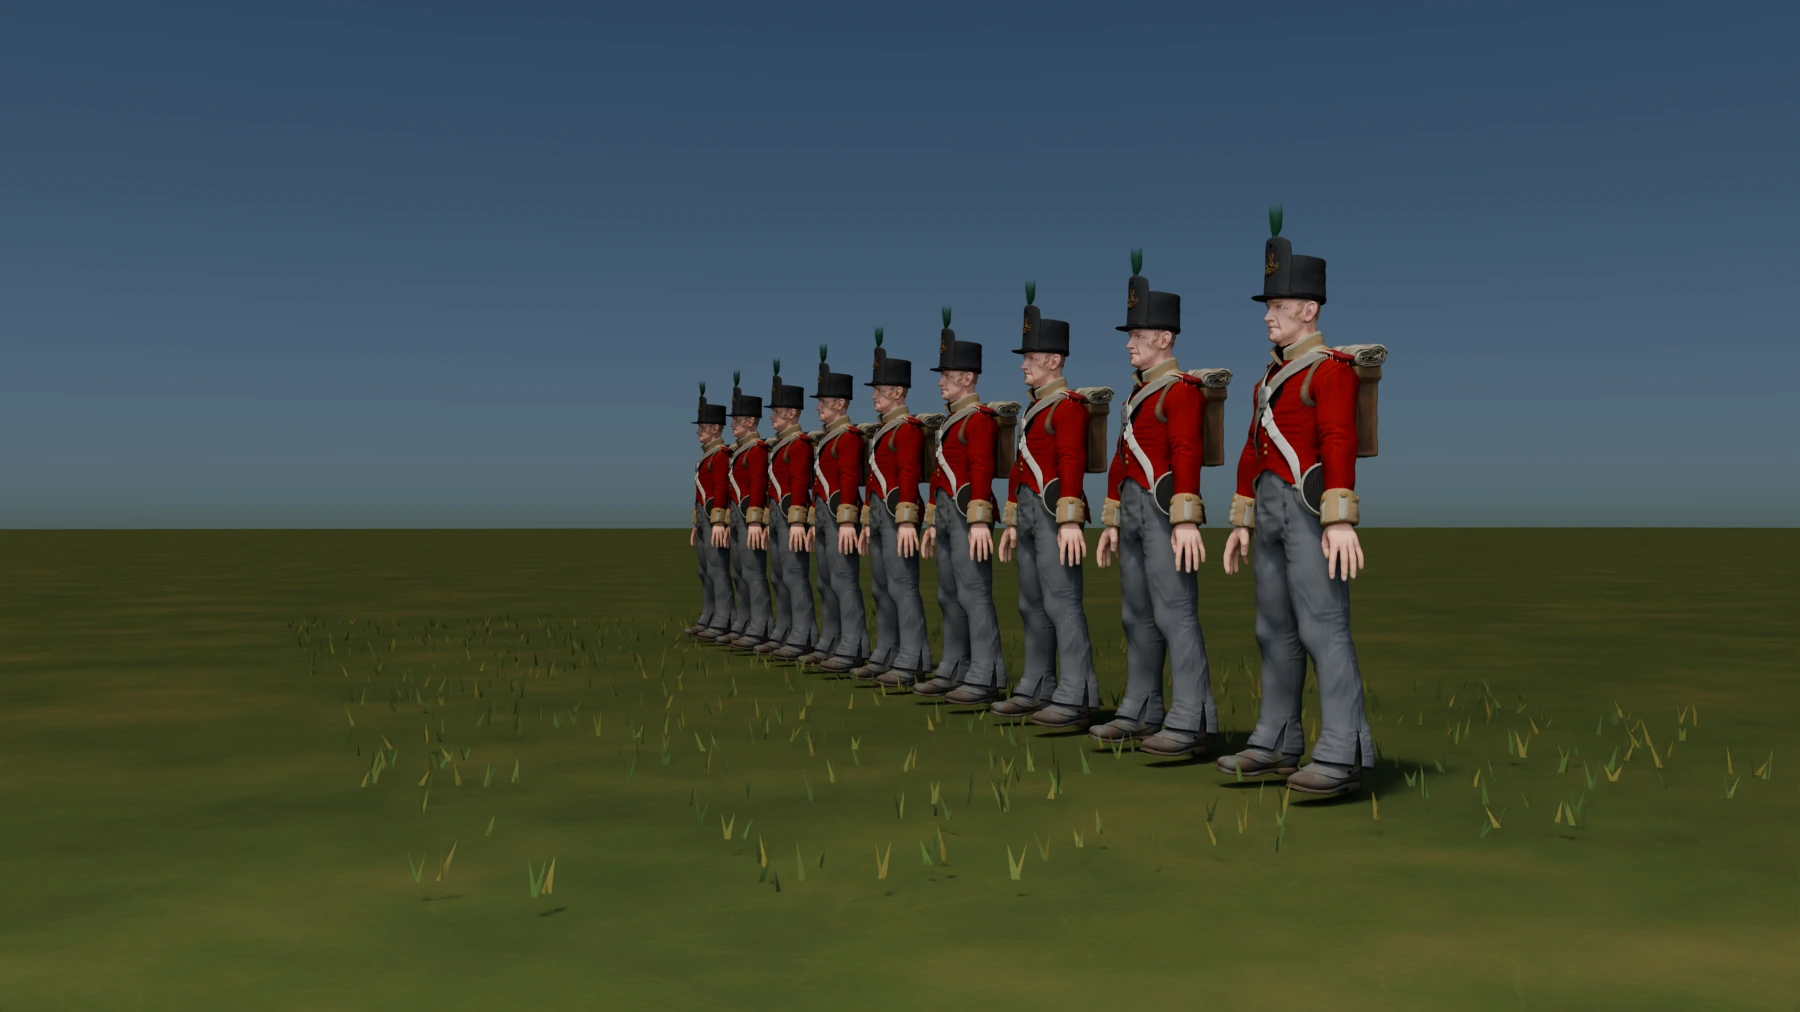
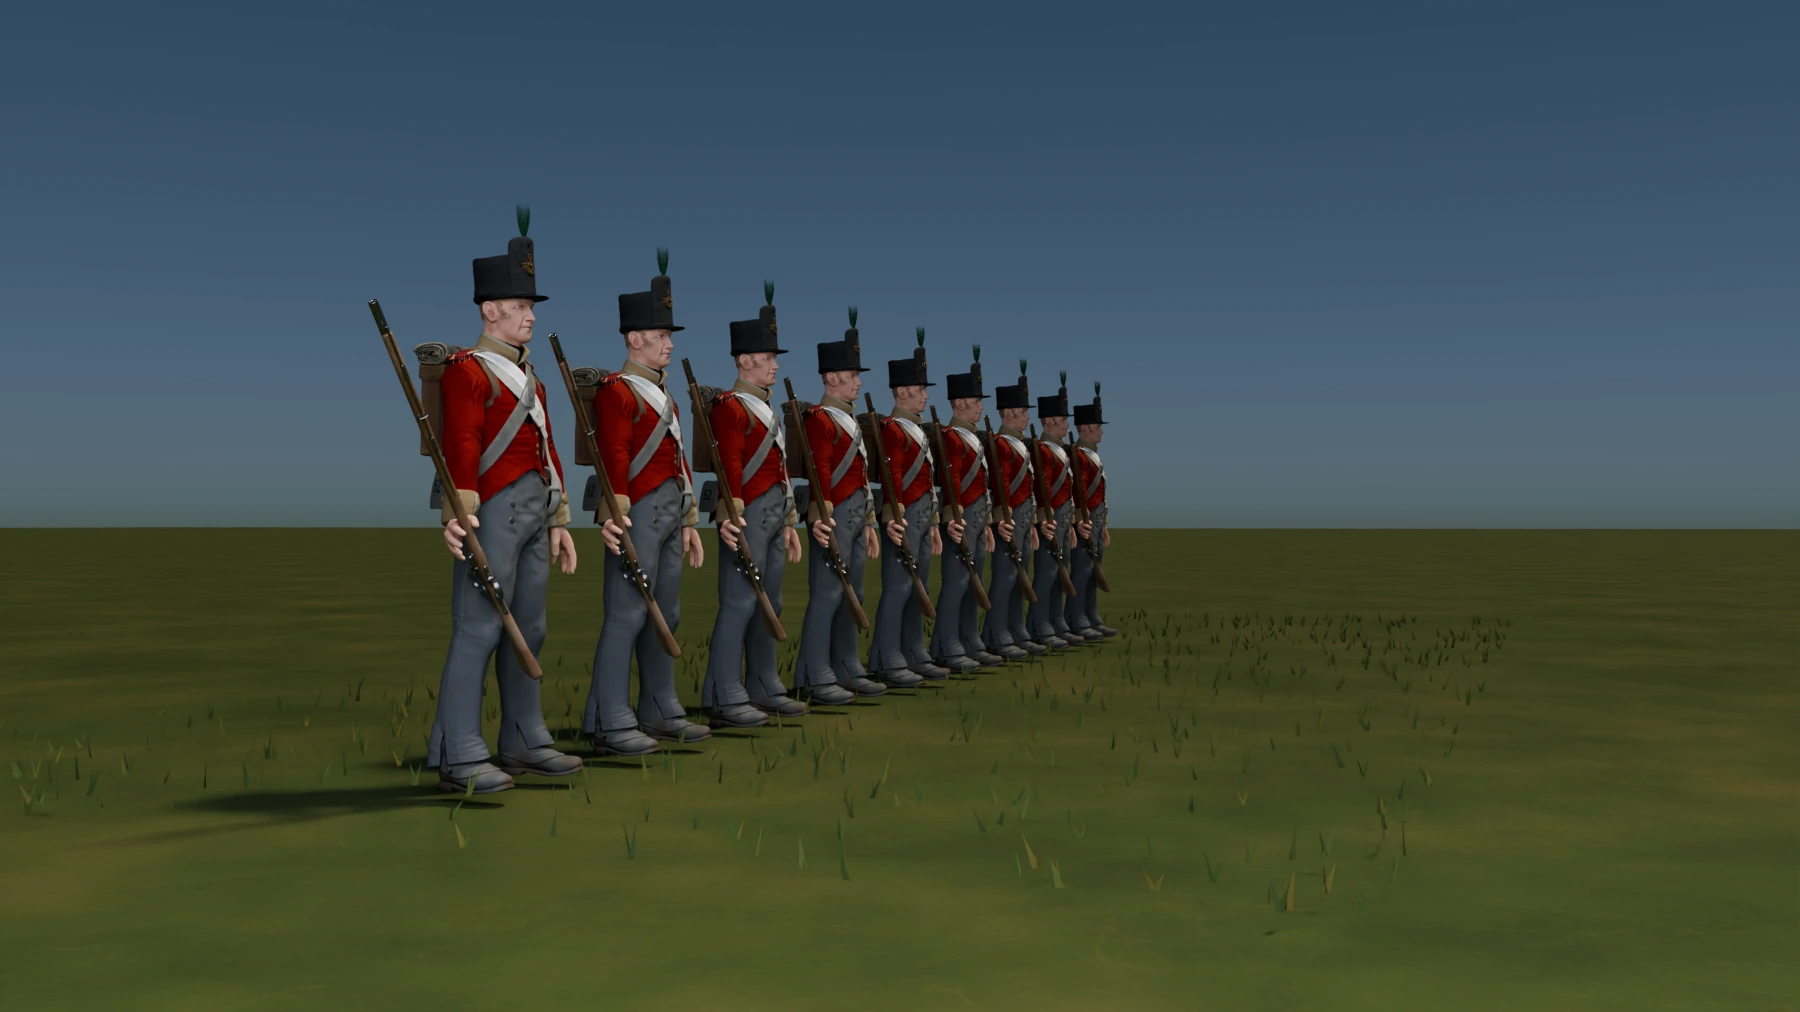
Publish armed 52nd infantry line study

diff --git a/site/index.html b/site/index.html
@@ -483,8 +483,8 @@ footer{padding:18px 0 30px;border-top:1px solid var(--line);color:#87918c;font-s
   <a href="images/gallery/night-lantern-camp.webp" aria-label="Open full size image: Camp lantern after dark"><img src="images/gallery/night-lantern-camp.webp" alt="Camp lantern after dark — A current Unity night preview of the field lantern lighting nearby camp props while the battlefield stays dark" loading="lazy"></a>
   <div><span class="eyebrow">Battlefield view</span><h3>Camp lantern after dark</h3><p>A current Unity night preview of the field lantern lighting nearby camp props while the battlefield stays dark</p></div>
 </article><article class="battle-card">
-  <a href="images/gallery/battle-ground-line.webp" aria-label="Open full size image: Along the infantry line"><img src="images/gallery/battle-ground-line.webp" alt="Along the infantry line — A near-ground open-flank view along weapon-free 52nd Light Infantry private models; Blender art study, not Unity gameplay" loading="lazy"></a>
-  <div><span class="eyebrow">Battlefield view</span><h3>Along the infantry line</h3><p>A near-ground open-flank view along weapon-free 52nd Light Infantry private models; Blender art study, not Unity gameplay.</p></div>
+  <a href="images/gallery/battle-ground-line.webp" aria-label="Open full size image: Along the infantry line"><img src="images/gallery/battle-ground-line.webp" alt="Along the infantry line — Near-ground open-flank view along the 52nd Light Infantry line; each private carries a flintlock musket at order arms. Blender art study, not Unity gameplay" loading="lazy"></a>
+  <div><span class="eyebrow">Battlefield view</span><h3>Along the infantry line</h3><p>Near-ground open-flank view along the 52nd Light Infantry line; each private carries a flintlock musket at order arms. Blender art study, not Unity gameplay.</p></div>
 </article><article class="battle-card">
   <a href="images/gallery/battle-grass-level.webp" aria-label="Open full size image: Just above the field"><img src="images/gallery/battle-grass-level.webp" alt="Just above the field — A low oblique Unity view across the front field, with volley smoke masking the opposing line" loading="lazy"></a>
   <div><span class="eyebrow">Battlefield view</span><h3>Just above the field</h3><p>A low oblique Unity view across the front field, with volley smoke masking the opposing line</p></div>

diff --git a/site/world-battlefield.html b/site/world-battlefield.html
@@ -280,9 +280,9 @@ footer a{color:var(--gold)}
   <div><span class="eyebrow">Battlefield view</span><h3>Camp lantern after dark</h3><p>A current Unity night preview of the field lantern lighting nearby camp props while the battlefield stays dark</p></div>
 </article><article class="battle-card">
   <a class="battle-image" href="images/gallery/battle-ground-line.webp" aria-label="Open full size image: Along the infantry line">
-    <img src="images/gallery/battle-ground-line.webp" alt="Along the infantry line — A near-ground open-flank view along weapon-free 52nd Light Infantry private models; Blender art study, not Unity gameplay" loading="lazy">
+    <img src="images/gallery/battle-ground-line.webp" alt="Along the infantry line — Near-ground open-flank view along the 52nd Light Infantry line; each private carries a flintlock musket at order arms. Blender art study, not Unity gameplay" loading="lazy">
   </a>
-  <div><span class="eyebrow">Battlefield view</span><h3>Along the infantry line</h3><p>A near-ground open-flank view along weapon-free 52nd Light Infantry private models; Blender art study, not Unity gameplay.</p></div>
+  <div><span class="eyebrow">Battlefield view</span><h3>Along the infantry line</h3><p>Near-ground open-flank view along the 52nd Light Infantry line; each private carries a flintlock musket at order arms. Blender art study, not Unity gameplay.</p></div>
 </article><article class="battle-card">
   <a class="battle-image" href="images/gallery/battle-grass-level.webp" aria-label="Open full size image: Just above the field">
     <img src="images/gallery/battle-grass-level.webp" alt="Just above the field — A low oblique Unity view across the front field, with volley smoke masking the opposing line" loading="lazy">

diff --git a/site/CREDITS.md b/site/CREDITS.md
@@ -34,7 +34,7 @@ Battlefield prop and material previews use nine 1K CC0 material sets from Poly H
 
 All listed Sketchfab source models are licensed under [Creative Commons Attribution 4.0](https://creativecommons.org/licenses/by/4.0/). Their source files and license records are retained in `art/battlefield/imports/`; project changes are described in `art/battlefield/THIRD_PARTY.md` and `art/winged_hussar/RIDER_ATTRIBUTION.md`.
 
-The five-view British Redcoat art study adapts the body, head, hands, uniform meshes, and rig from **Andy Woodhead**, [Infantry - rigged for UE4/5 - free download](https://sketchfab.com/3d-models/infantry-rigged-for-ue45-free-download-771050587ce248498178aee2c2f88f36), under CC BY 4.0. It depicts a weapon-free 52nd (Oxfordshire) Light Infantry private. The model is an art study and is not integrated into gameplay.
+The five-view British Redcoat uniform study adapts the body, head, hands, uniform meshes, and rig from **Andy Woodhead**, [Infantry - rigged for UE4/5 - free download](https://sketchfab.com/3d-models/infantry-rigged-for-ue45-free-download-771050587ce248498178aee2c2f88f36), under CC BY 4.0; those close uniform views are weapon-free. A separate open-flank line study retains the source musket and sling on each 52nd (Oxfordshire) Light Infantry private. Both are Blender art studies and are not integrated into gameplay.
 
 ## Showcase scope
 
